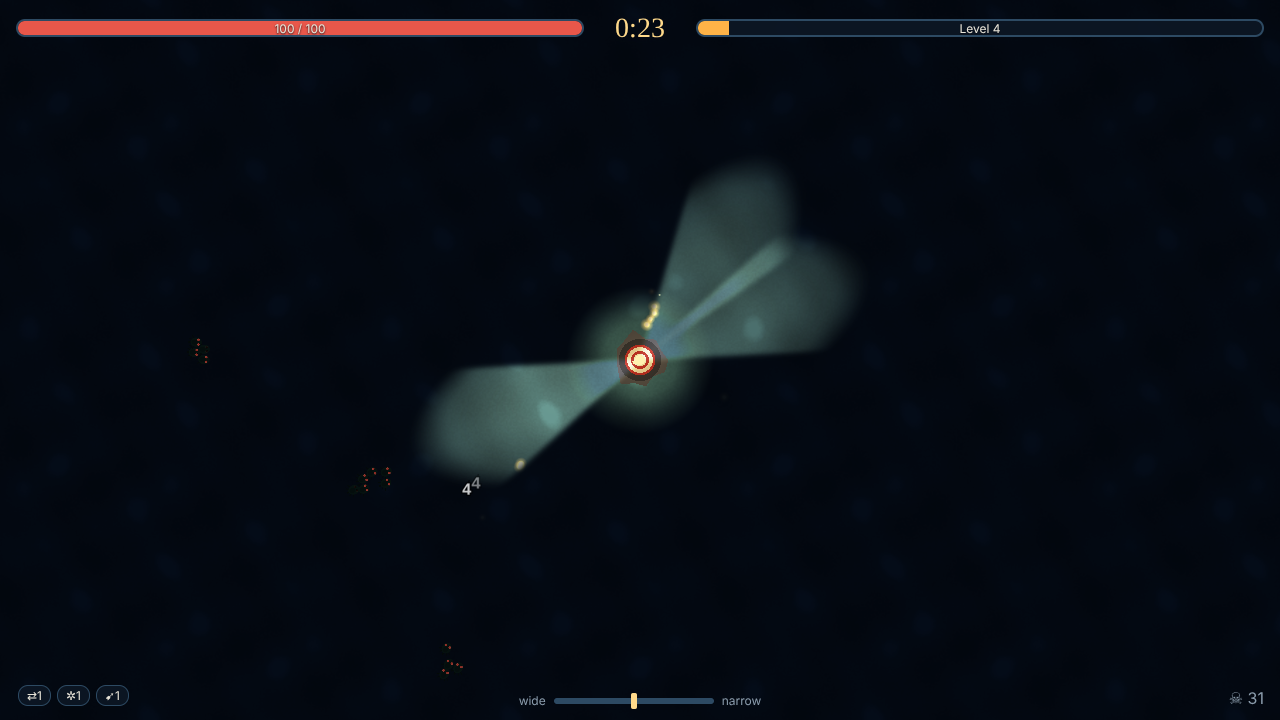
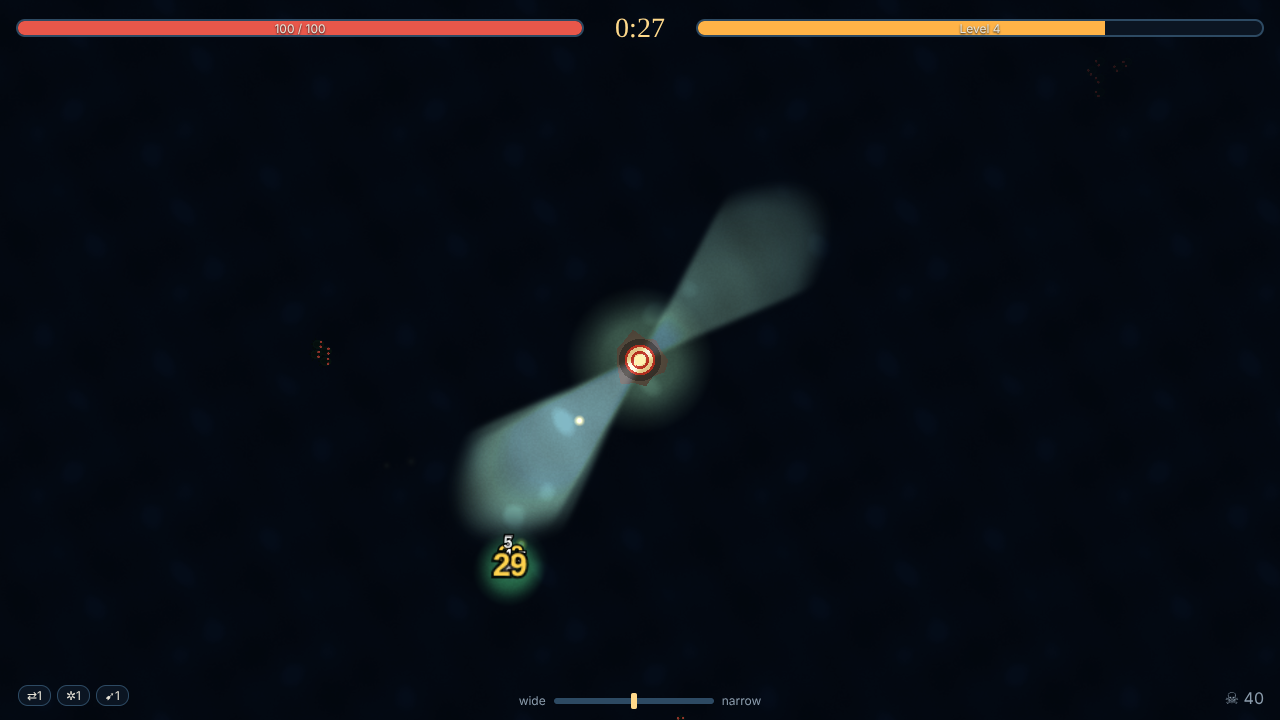
Playtest fixes: beam burns enemy spit, clearer shield ships, first-sighting tips; rebalance
Claude-Session: https://claude.ai/code/session_013c4jhh87XePh3AQefsztWg

Changed region(s): [[0.3125, 0.2139, 0.6875, 0.825], [0.5625, 0.0306, 0.875, 0.0611], [0.9375, 0.9472, 1.0, 0.9778]]

diff --git a/src/sim/beam.ts b/src/sim/beam.ts
@@ -2,6 +2,7 @@ import { CONFIG } from '../data/config';
 import { lerp, wrapAngle, TAU } from '../core/math';
 import { EF_BURROWED, EF_LIT } from './stores';
 import { DmgSrc, type World } from './world';
+import { Ev } from './events';
 import { damageEnemy, isShielded } from './enemies';
 
 /** Beam table stride: angle, halfWidth, range, dps fraction, source. */
@@ -85,7 +86,11 @@ export function beamPass(w: World, dt: number): void {
       const i = q[k]!;
       if (!E.pool.alive[i] || (E.flags[i]! & EF_BURROWED)) continue;
       markLit(w, i);
-      if (isShielded(w, i) && (sweep || !narrow)) continue;
+      if (isShielded(w, i) && (sweep || !narrow)) {
+        // visible feedback that the shield is deflecting a too-wide beam
+        if ((w.tick + i) % 15 === 0) w.events.push(Ev.Hit, E.x[i]!, E.y[i]!, 0, 2);
+        continue;
+      }
       const x = E.x[i]!, y = E.y[i]!;
       const d = Math.sqrt(x * x + y * y);
       const t = d / range;
@@ -95,6 +100,28 @@ export function beamPass(w: World, dt: number): void {
         f *= 1 + s.lensBonus * (off < 1 ? 1 - off : 0);
       }
       damageEnemy(w, i, dps * f * dt, src);
+    }
+  }
+
+  // the main and rear beams burn enemy projectiles out of the air
+  const P = w.projectiles;
+  const burn = B.projectileBurnTime;
+  for (let i = 0; i < P.pool.hi; i++) {
+    if (!P.pool.alive[i] || !P.hostile[i]) continue;
+    const x = P.x[i]!, y = P.y[i]!;
+    const d = Math.sqrt(x * x + y * y);
+    const ang = Math.atan2(y, x);
+    let inBeam = false;
+    for (let bi = 0; bi < n && !inBeam; bi++) {
+      const o = bi * BEAM_STRIDE;
+      if (w.beams[o + 4] === DmgSrc.SweepBeam) continue;
+      inBeam = d <= w.beams[o + 2]! && Math.abs(wrapAngle(ang - w.beams[o]!)) <= w.beams[o + 1]!;
+    }
+    if (!inBeam) continue;
+    P.heat[i]! += dt;
+    if (P.heat[i]! >= burn) {
+      w.events.push(Ev.ProjectileBurned, x, y);
+      P.pool.free(i);
     }
   }
 

diff --git a/src/main.ts b/src/main.ts
@@ -1,6 +1,16 @@
 import './style.css';
 import { Application } from 'pixi.js';
-import { CONFIG, BOSSES } from './data/config';
+import { CONFIG, BOSSES, EnemyType } from './data/config';
+
+/** Shown once per run, the first time each enemy type appears. */
+const ENEMY_TIPS: Record<number, string> = {
+  [EnemyType.Eel]: 'Eels weave fast. Sweep across them.',
+  [EnemyType.Crab]: 'Crabs are tough. Narrow the beam to burn them down.',
+  [EnemyType.Jelly]: 'Jellies split in two when they pop.',
+  [EnemyType.Spitter]: 'Spitters shoot from the dark. Your beam burns their spit out of the air.',
+  [EnemyType.Ship]: 'Shielded ships! Only a NARROW beam hurts them: scroll up, W, or RT.',
+  [EnemyType.Burrower]: 'Burrowers tunnel unseen until they surface near the rock.',
+};
 import { META, META_FULL } from './data/meta';
 import { palette, setColorblind } from './data/palette';
 import { createWorld, step } from './sim/sim';
@@ -211,6 +221,15 @@ class Game {
         case Ev.BossKill: this.audio.play('bossdie', { minGap: 0 }); this.ui.banner(`${BOSSES[a | 0]!.name} falls`, 3); break;
         case Ev.Death: this.audio.play('death', { minGap: 0 }); break;
         case Ev.Victory: this.audio.play('victory', { minGap: 0 }); break;
+        case Ev.FirstSeen: {
+          const tip = ENEMY_TIPS[a | 0];
+          if (tip) {
+            this.ui.banner(tip, 5);
+            if ((a | 0) === EnemyType.Ship) this.ui.flashFocus();
+          }
+          break;
+        }
+        case Ev.ProjectileBurned: this.audio.play('zap', { pitch: 1.6, minGap: 0.06 }); break;
         case Ev.Wave: this.audio.play('wave'); this.ui.banner(a === 0 ? 'They surround the rock' : 'A tide of them', 2.2); break;
       }
     }

diff --git a/src/data/config.ts b/src/data/config.ts
@@ -109,7 +109,9 @@ export const CONFIG = {
     range: 380,
     falloff: 0.55,
     /** shielded ships take beam damage only when focus >= this */
-    shieldFocus: 0.72,
+    shieldFocus: 0.65,
+    /** seconds an enemy projectile survives inside the main/rear beam */
+    projectileBurnTime: 0.12,
     /** fraction of the main beam's dps the second beam has per level */
     lowHpFlicker: 0.3,
   },
@@ -134,14 +136,14 @@ export const CONFIG = {
   director: {
     /** [seconds, threat points per second]; drops to 0 at 15:00 so dawn is a duel with the Maw */
     threatCurve: [
-      [0, 1.6], [60, 3.4], [180, 7.5], [300, 11], [420, 16], [600, 23], [780, 35], [899, 44], [900, 0],
+      [0, 1.6], [60, 3.4], [180, 7.5], [300, 11], [420, 17.5], [600, 27], [780, 46], [899, 58], [900, 0],
     ] as Array<[number, number]>,
     /** budget multiplier while a boss is alive */
     bossBudgetScale: 0.45,
     /** budget the director starts with, so the first group shows up immediately */
     startBudget: 6,
     /** hp multiplier ramps over time: [seconds, mult] */
-    hpCurve: [[0, 1], [300, 1.6], [600, 2.7], [780, 3.7], [900, 4.8]] as Array<[number, number]>,
+    hpCurve: [[0, 1], [300, 1.6], [600, 3.1], [780, 4.4], [900, 5.8]] as Array<[number, number]>,
     maxEnemies: 900,
     events: [
       { at: 125, kind: 'ring', type: EnemyType.Swarmer, count: 36 },

diff --git a/src/style.css b/src/style.css
@@ -102,8 +102,11 @@ input[type=range]:focus { outline: 2px solid var(--accent); }
 .focus-bar { position: relative; width: 160px; height: 6px; background: var(--border); border-radius: 3px; }
 .focus-knob { position: absolute; top: -5px; width: 6px; height: 16px; margin-left: -3px; background: var(--accent); border-radius: 2px; }
 .focus.narrow .focus-knob { background: var(--accent2); box-shadow: 0 0 8px var(--accent2); }
+.focus.teach { animation: teach 0.5s ease-in-out 8 alternate; color: var(--accent2); }
+@keyframes teach { from { transform: scale(1); } to { transform: scale(1.35); } }
 .kills { text-align: right; color: var(--dim); }
 .banner { position: absolute; top: 28%; width: 100%; text-align: center; font-family: Georgia, serif; font-size: clamp(22px, 4vw, 40px); color: var(--accent); opacity: 0; text-shadow: 0 0 20px var(--bg); }
+.banner.long { font-size: clamp(18px, 2.6vw, 28px); padding: 0 16px; box-sizing: border-box; }
 .banner.show { animation: banner 2.4s ease-out; }
 .bench { position: absolute; bottom: 48px; width: 100%; text-align: center; color: var(--accent2); font-size: 14px; }
 @keyframes pulse { from { opacity: 1; } to { opacity: 0.55; } }

diff --git a/src/game/ui.ts b/src/game/ui.ts
@@ -356,10 +356,20 @@ export class UI {
   banner(text: string, seconds = 2.5): void {
     const b = this.hudEls['banner']!;
     b.textContent = text;
+    b.style.animationDuration = `${seconds}s`;
+    b.classList.toggle('long', text.length > 40);
     b.classList.remove('show');
     void b.offsetWidth;
     b.classList.add('show');
     window.setTimeout(() => b.classList.remove('show'), seconds * 1000);
+  }
+
+  /** pulse the focus meter to teach the narrow-beam mechanic */
+  flashFocus(): void {
+    const f = this.hudEls['focus']!;
+    f.classList.remove('teach');
+    void f.offsetWidth;
+    f.classList.add('teach');
   }
 
   benchText(text: string): void {

diff --git a/src/sim/stores.ts b/src/sim/stores.ts
@@ -53,8 +53,11 @@ export class ProjectileStore {
   readonly lastHit: Int32Array;
   readonly kind: Uint8Array;
   readonly hostile: Uint8Array;
+  /** seconds spent inside the beam (enemy projectiles burn away) */
+  readonly heat: Float32Array;
   constructor(cap: number) {
     this.pool = new Pool(cap);
+    this.heat = new Float32Array(cap);
     const f = () => new Float32Array(cap);
     this.x = f(); this.y = f(); this.px = f(); this.py = f(); this.vx = f(); this.vy = f();
     this.life = f(); this.damage = f(); this.radius = f();

diff --git a/src/render/renderer.ts b/src/render/renderer.ts
@@ -284,6 +284,10 @@ export class GameRenderer {
         this.rings.spawn(x, y, 60, 140, 0.5, p.eyes);
         this.shake.add(0.15);
         break;
+      case Ev.ProjectileBurned:
+        this.sparks.burst(x, y, 6, 90, 0.3, 6, p.spit);
+        this.addLight(x, y, 30, 0.15, p.beam);
+        break;
       case Ev.Explosion:
         this.sparks.burst(x, y, 10, 160, 0.35, 8, p.burn);
         this.addLight(x, y, a * 1.6, 0.2, p.burn);

diff --git a/src/sim/enemies.ts b/src/sim/enemies.ts
@@ -31,6 +31,10 @@ export function spawnEnemy(w: World, type: EnemyType, x: number, y: number, gen:
   E.type[i] = type;
   E.gen[i] = gen;
   E.flags[i] = type === EnemyType.Burrower ? EF_BURROWED : 0;
+  if (!(w.seenTypes & (1 << type))) {
+    w.seenTypes |= 1 << type;
+    w.events.push(Ev.FirstSeen, x, y, type);
+  }
   return i;
 }
 

diff --git a/src/sim/events.ts b/src/sim/events.ts
@@ -20,6 +20,10 @@ export enum Ev {
   Death,
   Wave,
   BossAttack,
+  /** first time an enemy type appears this run (a = type) */
+  FirstSeen,
+  /** an enemy projectile burned away by the beam */
+  ProjectileBurned,
 }
 
 /** Fixed-size SoA event ring the sim writes and render/audio drain each frame. */

diff --git a/src/sim/world.ts b/src/sim/world.ts
@@ -110,6 +110,8 @@ export class World {
   bossesKilled = 0;
   peakEnemies = 0;
   slowmo = 0;
+  /** bitmask of enemy types spawned so far this run */
+  seenTypes = 0;
   /** if set, the director appends [tick, type, x, y] for every spawn roll (tests) */
   spawnLog: number[] | null = null;
 

diff --git a/src/sim/weapons.ts b/src/sim/weapons.ts
@@ -17,6 +17,7 @@ export function spawnProjectile(
   P.damage[i] = damage; P.radius[i] = radius; P.pierce[i] = pierce;
   P.life[i] = life; P.kind[i] = kind; P.hostile[i] = hostile ? 1 : 0;
   P.lastHit[i] = -1;
+  P.heat[i] = 0;
   return i;
 }
 

diff --git a/PROGRESS.md b/PROGRESS.md
@@ -15,10 +15,10 @@ All four milestones (M1–M4) are implemented and their acceptance checks pass, 
 
 | | median survival | p10 / p25 / p75 / p90 | reached 15:00 | killed final boss |
 |---|---|---|---|---|
-| bot, no meta (target median 6–9 min) | **8:57** | 5:34 / 5:36 / 10:16 / 10:27 | 0% | 0% |
-| bot, full meta (target 30–60% reach 15:00) | 15:00 | 11:06 / 12:52 / 15:00 / 15:04 | **50.5%** | 40.0% |
+| bot, no meta (target median 6–9 min) | **8:48** | 5:34 / 5:36 / 10:40 / 12:29 | 0.5% | 0.5% |
+| bot, full meta (target 30–60% reach 15:00) | 15:00 | 12:58 / 13:46 / 15:00 / 15:00 | **52.5%** | 44.5% |
 
-  No-meta deaths are bimodal: 30% at the Leviathan (5:00) and 40% at the Kraken (10:00), the rest in between. Most picked: Brighter Wick, Harpoon Turret, Long Throw, Rear Lamp, Wide Lens. Least picked: Whale Oil, Ember Magnet, Cold Light, Hearth Glow (the bot's fixed priority list puts these last), and the Thunder Lanterns / Wildfire evolutions (rarely completed). Damage taken comes almost entirely from bosses, spitter/boss projectiles and shielded ships; the bot's aim makes fodder harmless, so humans will find minutes 0–5 harder than the bot does.
+  (Re-run after playtest fixes on 2026-10-30.) No-meta deaths cluster at the Leviathan (5:00) and the Kraken (10:00). Most picked: Brighter Wick, Harpoon Turret, Long Throw, Rear Lamp, Wide Lens. Least picked: Whale Oil, Ember Magnet, Cold Light, Hearth Glow (the bot's fixed priority list puts these last), and the Thunder Lanterns / Wildfire evolutions (rarely completed). Damage taken comes almost entirely from shielded ships and bosses; the bot's aim makes fodder harmless, so humans will find minutes 0–5 harder than the bot does.
 
 ## Performance
 `?bench=5000` in headless Chromium 1243 (SwiftShader software GL, 4-core container), 10s after 1.5s warm-up:
@@ -48,6 +48,9 @@ Optimisations made: separation scans capped at 24 neighbour candidates (sim tick
 - Damage numbers overlap in dense fights (by design they are pooled to 256).
 - On narrow portrait windows the menu title can overflow (mobile is out of scope).
 - The bot ignores Ember Magnet / Cold Light / Hearth Glow, so their balance is untested by the harness.
+
+## Playtest 1 (Sander, died before 5:00 to "unstoppable things")
+- The beam now burns enemy projectiles (`projectileBurnTime`), the narrow-beam threshold for shields dropped 0.72 → 0.65, deflected beams throw blue sparks, and each enemy type shows a one-line tip the first time it appears (the ship tip also pulses the focus meter). Late-game threat/HP raised to keep the bot targets.
 
 ## Next up
 - Measure `?bench=5000` on a real mid-range laptop with a GPU and record it here.
